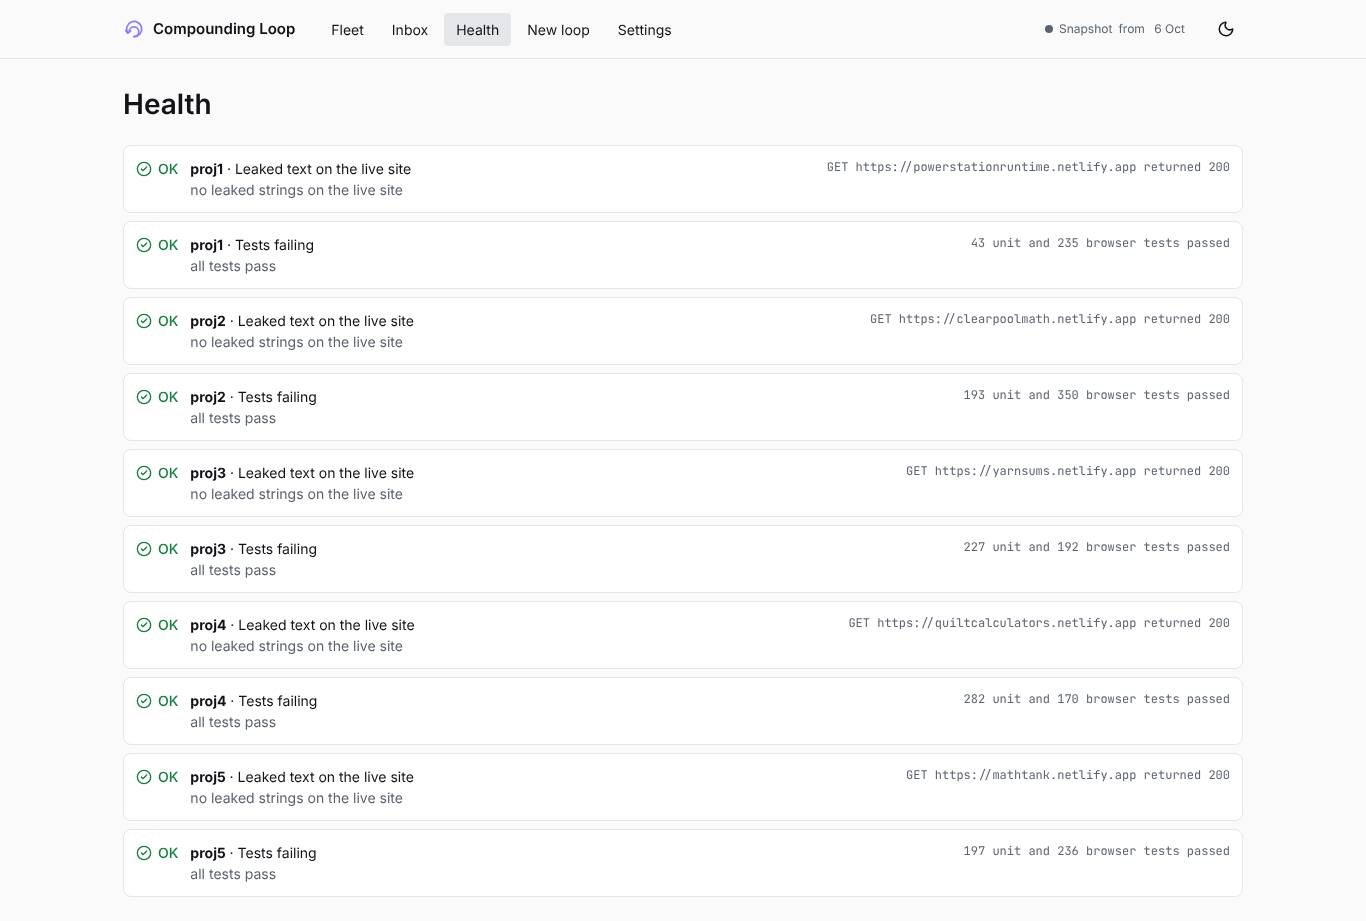
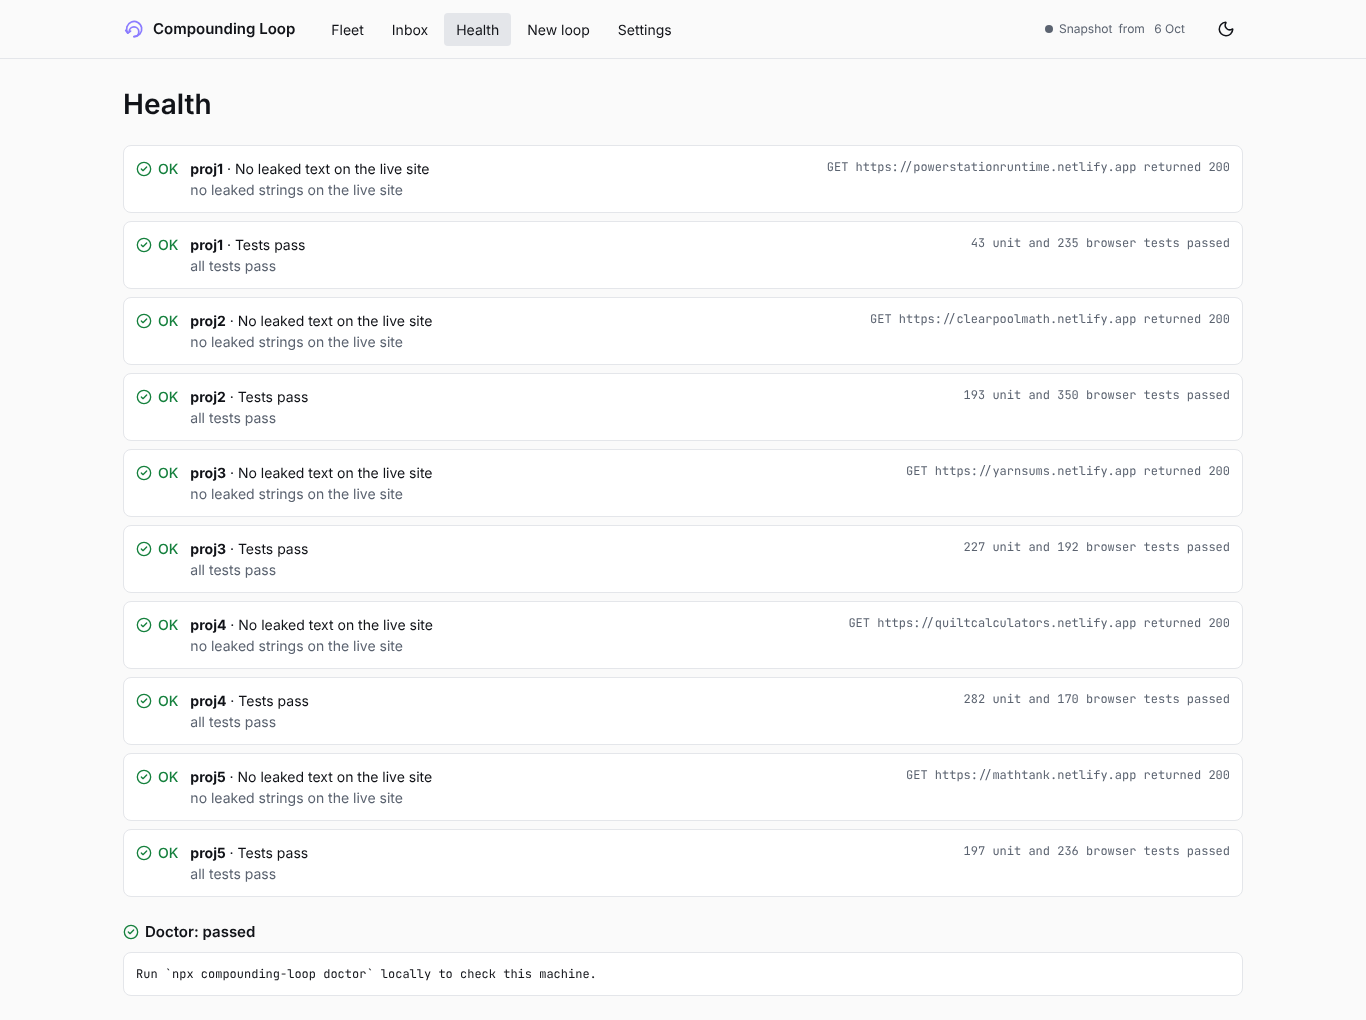
web: refresh dashboard screenshots; note run 10
Lane: web

Claude-Session: https://claude.ai/code/session_011q2sL9ftsdA47ZAJELwydW

diff --git a/.ai/lanes/web/task.md b/.ai/lanes/web/task.md
@@ -1,6 +1,6 @@
 # Lane: web — round 4 (0.4.0 "Control")
 
-Run: 9 / 20
+Run: 10 / 20
 Status: units 1 (partial), 2, 3 (most), 4 shipped (Runs tab, card status line), 6 partly (Ready to ship panel read-only, Releases tab, paused notice); ControlBar (Pause/Resume, Next round, Release with confirm dialog) shipped; Tests tab (done run 3), launch drafts + Copy, Inbox edit links, Release as filled primary, post-action toast, 7-8 open
 Round 3 record: `.ai/lanes/web/done-v3.md` (`git show b3b51a5:.ai/lanes/web/task.md` for its Decisions).
 
@@ -48,6 +48,8 @@ Round 3 record: `.ai/lanes/web/done-v3.md` (`git show b3b51a5:.ai/lanes/web/task
 - Run 8: stale clone, worked on lane-run; Tests chart preserveAspectRatio=none (+ e2e). Small diff pushed without reviewer subagent. Units 7-8 (states, screenshots, design review) still open.
 
 - Run 9: stale clone, worked on lane-run; npm test green on fresh pull. Tests tab data table is now a visible "Show as table" disclosure (+ e2e). Small diff, no reviewer subagent. Still open in unit 7: Tests commit link, rate-limited state; unit 8 screenshots + design review.
+
+- Run 10: stale clone, lane-run; npm test green (144 passed). Re-shot docs/assets/screens (laptop, demo mode). Tried Runs/Tests tab shots: the self loop has no run log in the snapshot, so the tabs don't exist there; dropped. Needs run-log fixture data (server) before those can be shot. Still open: Tests commit link (needs sha per run), unit 8 independent design review.
 
 ## Don't
 - Edit paths another lane owns, except for the "main stays green" fix.
